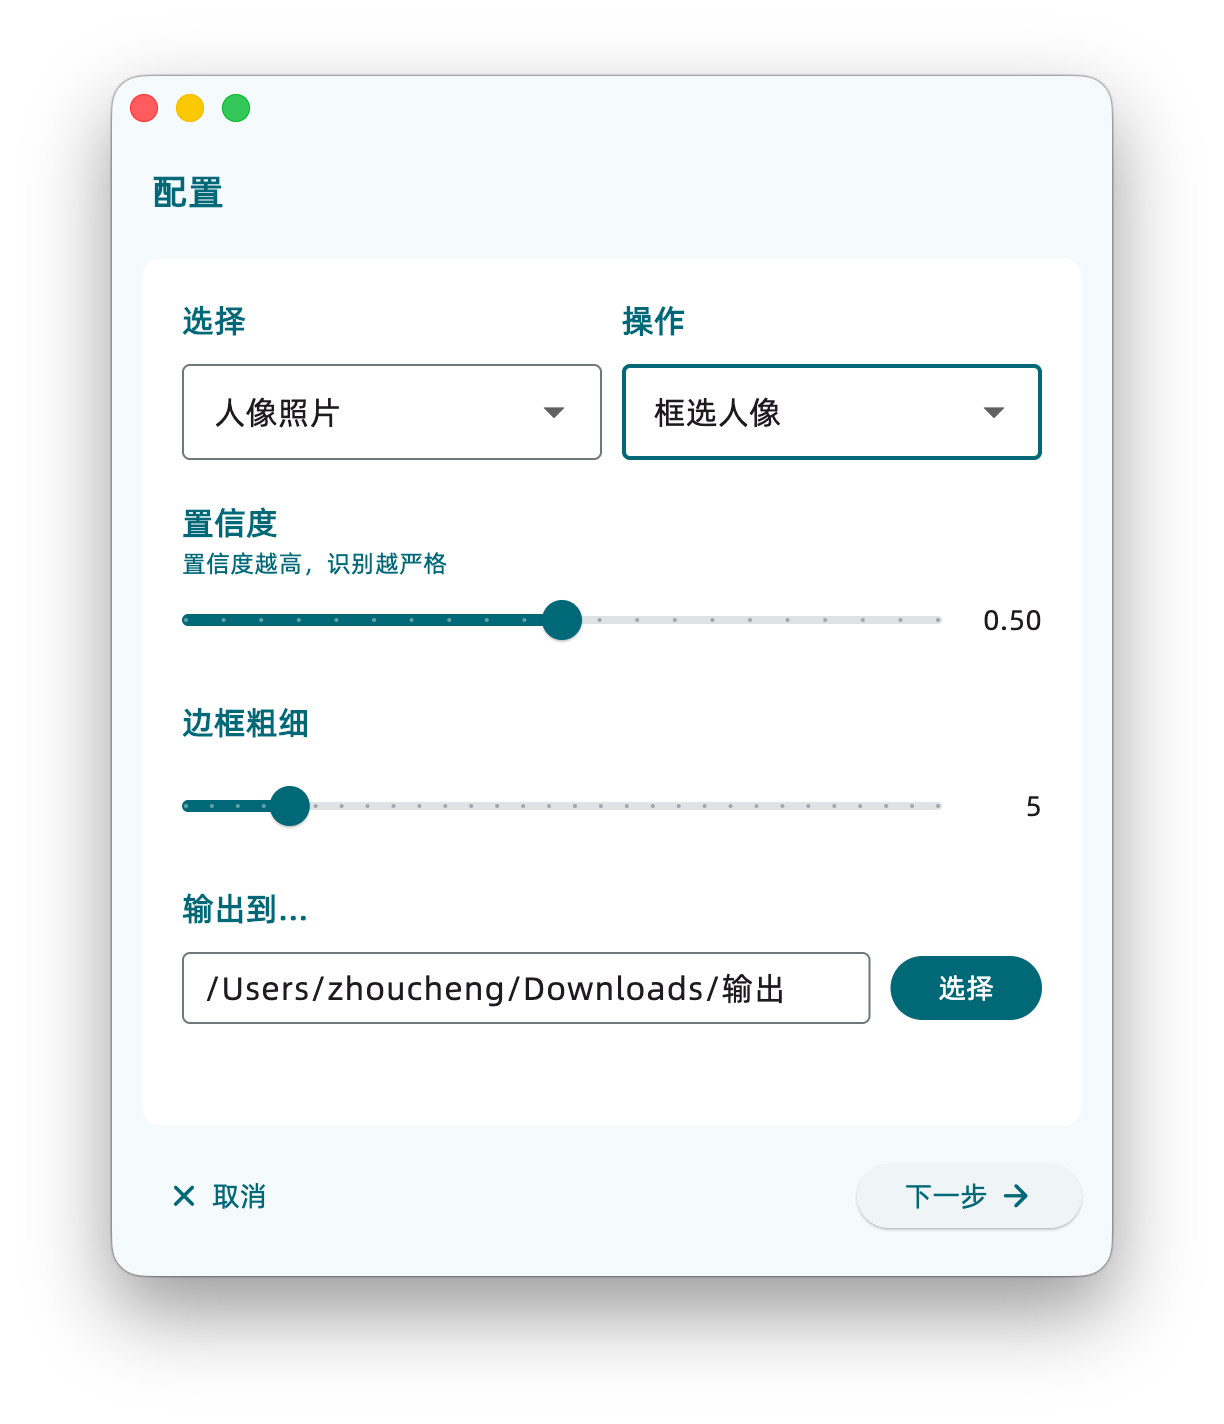
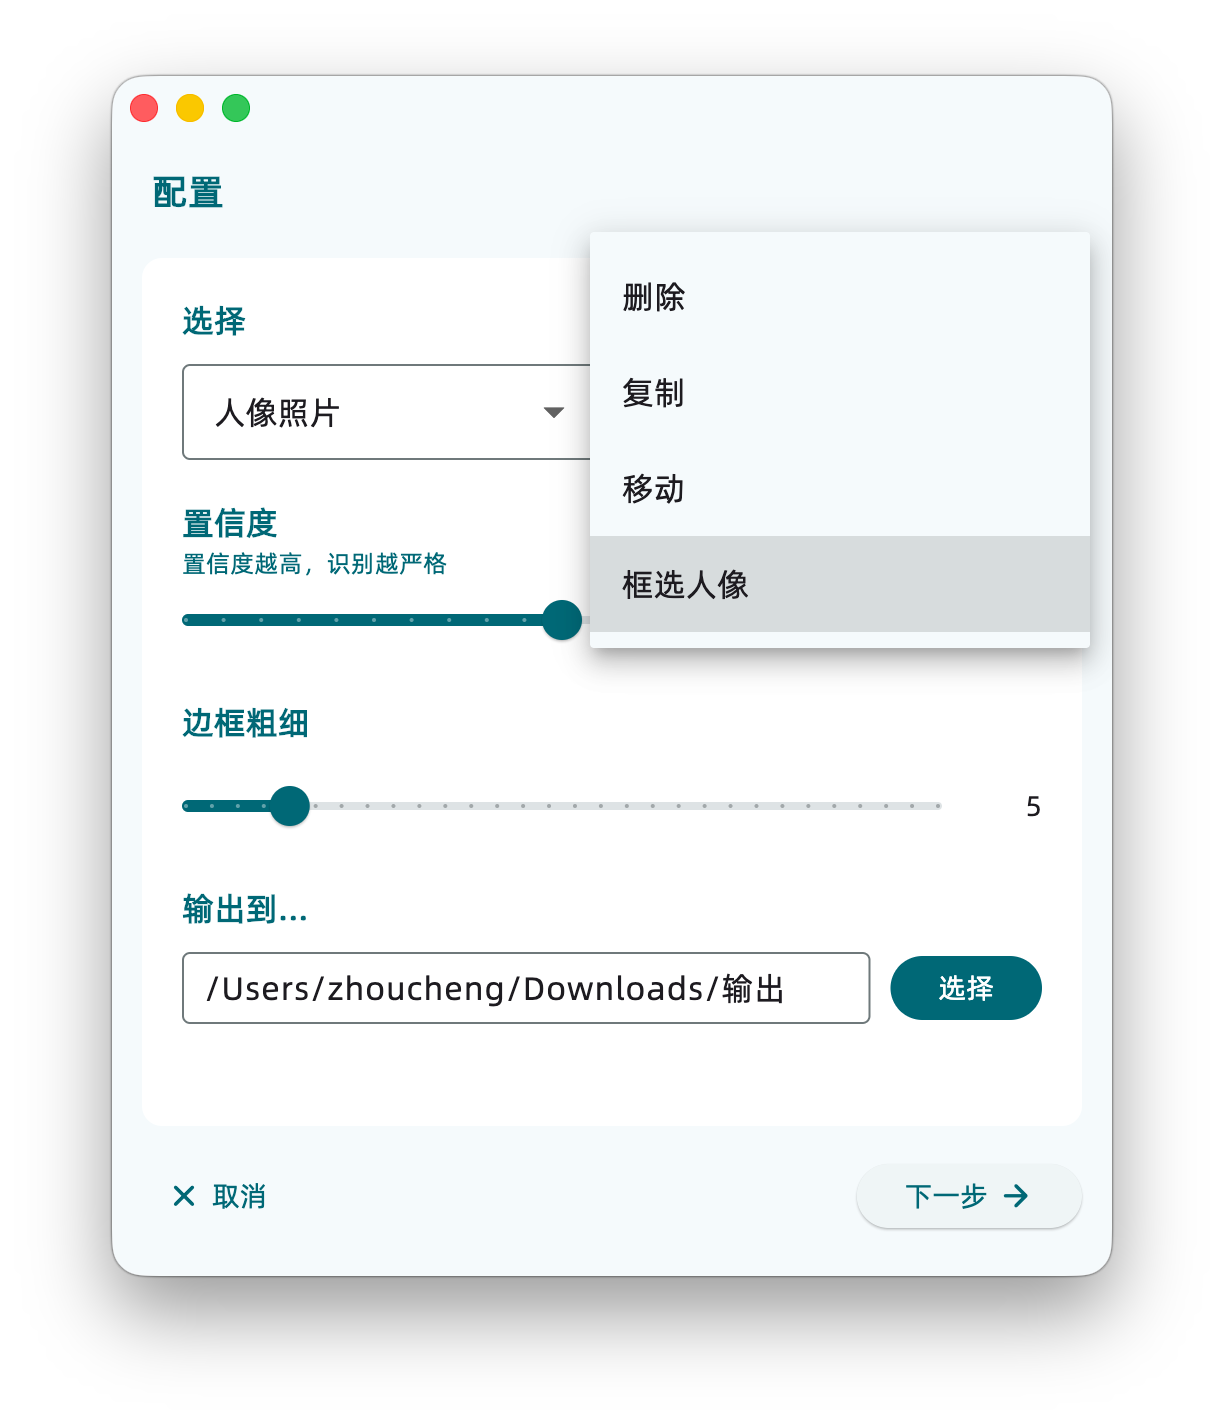
更新readme

Changed region(s): [[0.4657, 0.1854, 0.9003, 0.4944]]

diff --git a/documents/en.md b/documents/en.md
@@ -1,0 +1,21 @@
+# FaceDetector
+
+中文版请点击 [这里](../README.md) 查看。
+
+## Introduction
+
+<img src="../assets/icon.png" width="100px">
+
+![License](https://img.shields.io/badge/License-MIT-dark_green)
+
+A face detection and organization tool that supports:
+- Copying, moving, or deleting portrait and non-portrait photos to a designated directory.
+- Drawing bounding boxes around detected faces in photos.
+- Adjusting the confidence threshold (detection strictness).
+
+The core module is developed in Python and available [HERE](https://github.com/Zhoucheng133/Face-Detector).
+
+## Screenshots
+
+<img src="../screenshots/en/1.png" width="400px">
+<img src="../screenshots/en/2.png" width="400px">

diff --git a/README.md b/README.md
@@ -19,4 +19,3 @@ Also available in English. Click [HERE](/documents/en.md) to view the English ve
 
 <img src="screenshots/cn/1.png" width="400px">
 <img src="screenshots/cn/2.png" width="400px">
-<img src="screenshots/cn/3.png" width="400px">
